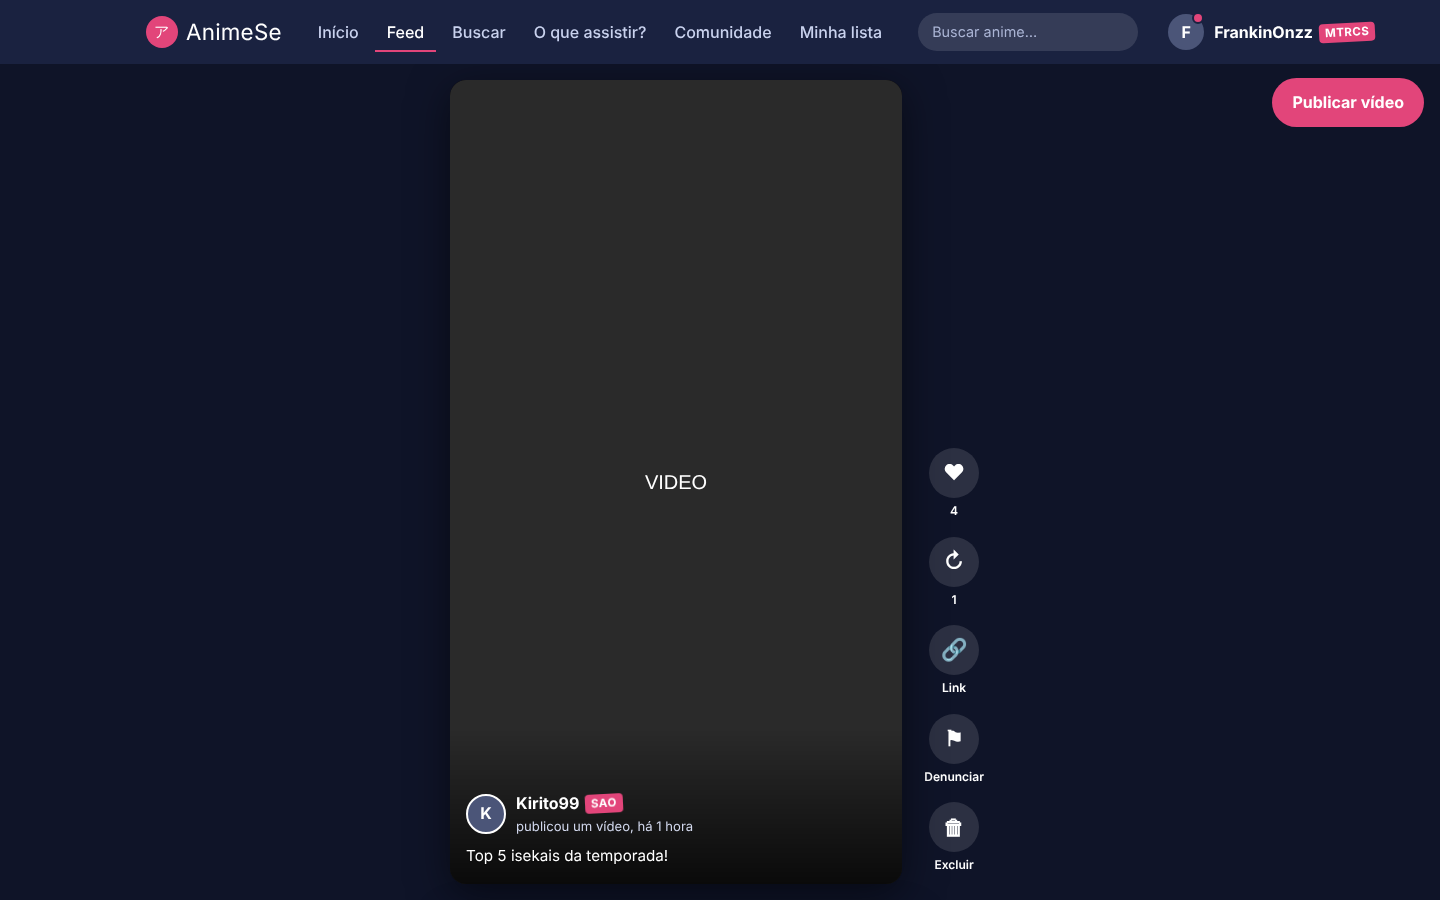
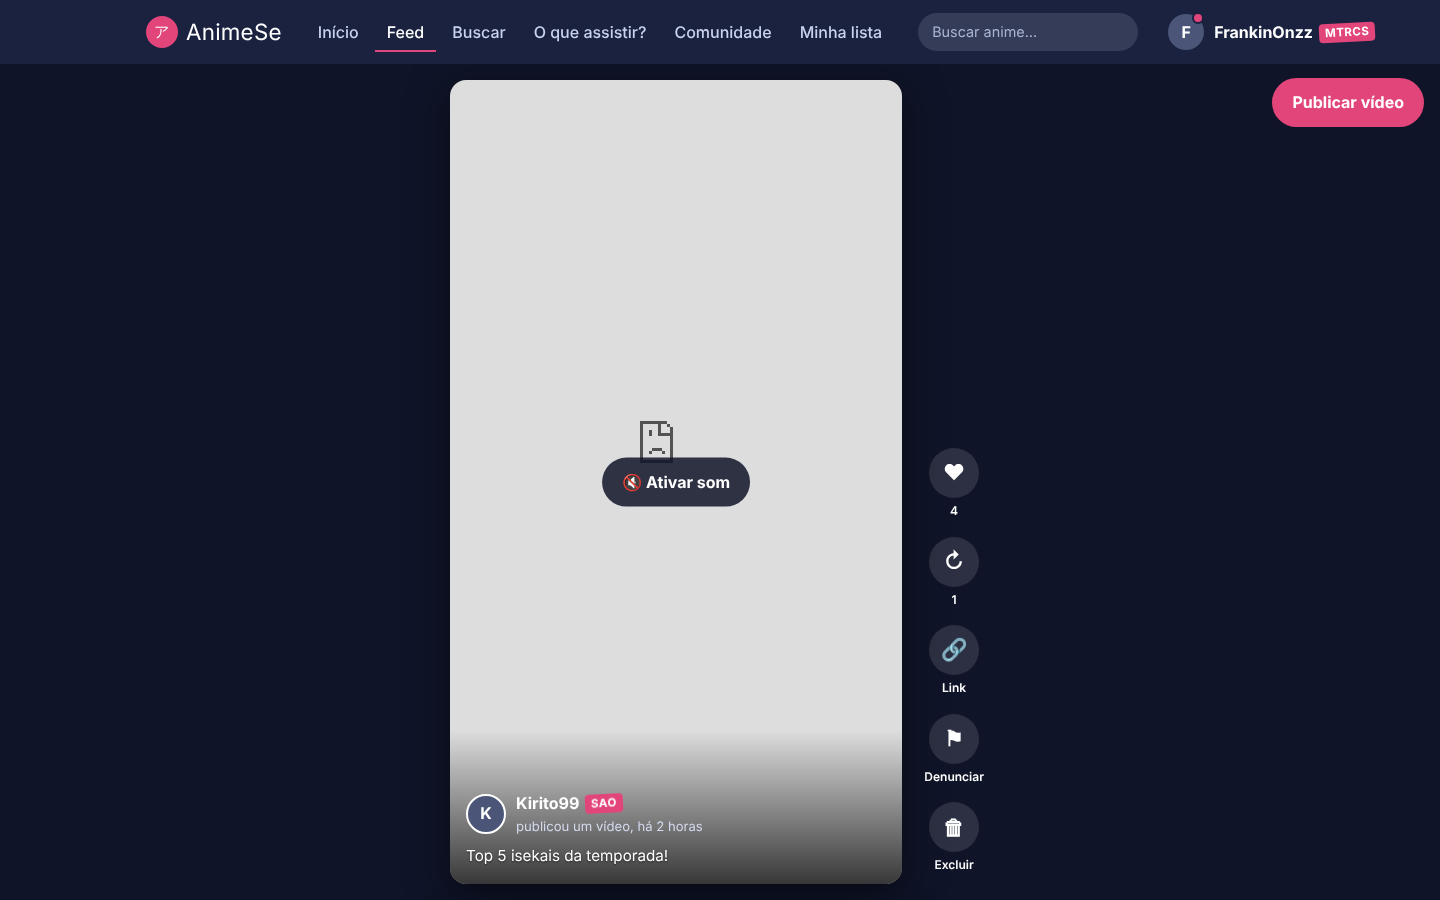
Feed: vídeo da tela toca sozinho (mudo até a primeira interação, com botão Ativar som)
Claude-Session: https://claude.ai/code/session_01SNv1VUAmU58xySkxd8e9u8

Changed region(s): [[0.3125, 0.0622, 0.625, 0.9956]]

diff --git a/js/paginas/feed.js b/js/paginas/feed.js
@@ -139,7 +139,8 @@ const observador = new IntersectionObserver((entradas) => {
     if (!e.isIntersecting) continue;
     const itens = [...feed.querySelectorAll(".item-feed")];
     const i = itens.indexOf(e.target);
-    itens.forEach((el, j) => (Math.abs(j - i) <= 1 ? ligarVideo(el) : desligarVideo(el)));
+    // Só o vídeo na tela fica carregado e tocando; os outros são desligados
+    itens.forEach((el, j) => (j === i ? ligarVideo(el) : desligarVideo(el)));
     history.replaceState(null, "", `feed.html?item=${e.target.dataset.chave}`);
     if (i >= itens.length - 3) carregarMais();
   }
@@ -147,13 +148,43 @@ const observador = new IntersectionObserver((entradas) => {
 
 function observarItem(el) { if (el) observador.observe(el); }
 
-function ligarVideo(el) {
-  const midia = el.querySelector("[data-embed]");
-  if (!midia || midia.querySelector("iframe")) return;
-  midia.insertAdjacentHTML("beforeend", `<iframe src="${midia.dataset.embed}" title="Vídeo" loading="lazy" allowfullscreen
-    allow="accelerometer; autoplay; clipboard-write; encrypted-media; gyroscope; picture-in-picture"></iframe>`);
+/**
+ * Reprodução automática. Os navegadores só deixam um vídeo tocar sozinho
+ * COM SOM depois que a pessoa já clicou ou tocou em algo na página. Antes
+ * disso, o vídeo começa mudo e aparece o botão "Ativar som".
+ */
+const podeTocarComSom = () => Boolean(navigator.userActivation?.hasBeenActive);
+
+function urlAutoplay(embed, rede, mudo) {
+  const url = new URL(embed);
+  if (rede === "youtube") {
+    url.searchParams.set("autoplay", "1");
+    url.searchParams.set("mute", mudo ? "1" : "0");
+    url.searchParams.set("playsinline", "1");
+  } else if (rede === "tiktok") {
+    url.searchParams.set("autoplay", "1");
+    url.searchParams.set("muted", mudo ? "1" : "0");
+  }
+  // Instagram não permite reprodução automática em sites de fora
+  return url.toString();
 }
-function desligarVideo(el) { el.querySelector("[data-embed] iframe")?.remove(); }
+
+function ligarVideo(el, forcarSom = false) {
+  const midia = el.querySelector("[data-embed]");
+  if (!midia || (midia.querySelector("iframe") && !forcarSom)) return;
+  midia.querySelector("iframe")?.remove();
+  midia.querySelector(".btn-som")?.remove();
+  const rede = midia.dataset.rede;
+  const mudo = !forcarSom && !podeTocarComSom() && rede !== "instagram";
+  midia.insertAdjacentHTML("beforeend", `<iframe src="${esc(urlAutoplay(midia.dataset.embed, rede, mudo))}" title="Vídeo" allowfullscreen
+    allow="accelerometer; autoplay; clipboard-write; encrypted-media; gyroscope; picture-in-picture"></iframe>
+    ${mudo ? `<button type="button" class="btn-som">🔇 Ativar som</button>` : ""}`);
+  midia.querySelector(".btn-som")?.addEventListener("click", () => ligarVideo(el, true));
+}
+function desligarVideo(el) {
+  el.querySelector("[data-embed] iframe")?.remove();
+  el.querySelector("[data-embed] .btn-som")?.remove();
+}
 
 // Teclado: setas para cima e para baixo trocam de vídeo
 document.addEventListener("keydown", (e) => {

diff --git a/css/style.css b/css/style.css
@@ -1032,3 +1032,11 @@ h3 { font-size: 1.05rem; }
   .feed-barra { top: 10px; right: 10px; }
   .denuncia-colunas { grid-template-columns: 1fr; }
 }
+
+/* Botão para ativar o som quando o vídeo começou mudo */
+.btn-som {
+  position: absolute; z-index: 2; top: 50%; left: 50%; transform: translate(-50%, -50%);
+  padding: 12px 20px; border: 0; border-radius: 999px; cursor: pointer;
+  background: rgba(15,20,40,.85); color: #fff; font: inherit; font-weight: 700;
+}
+.btn-som:hover { background: var(--sakura); }
